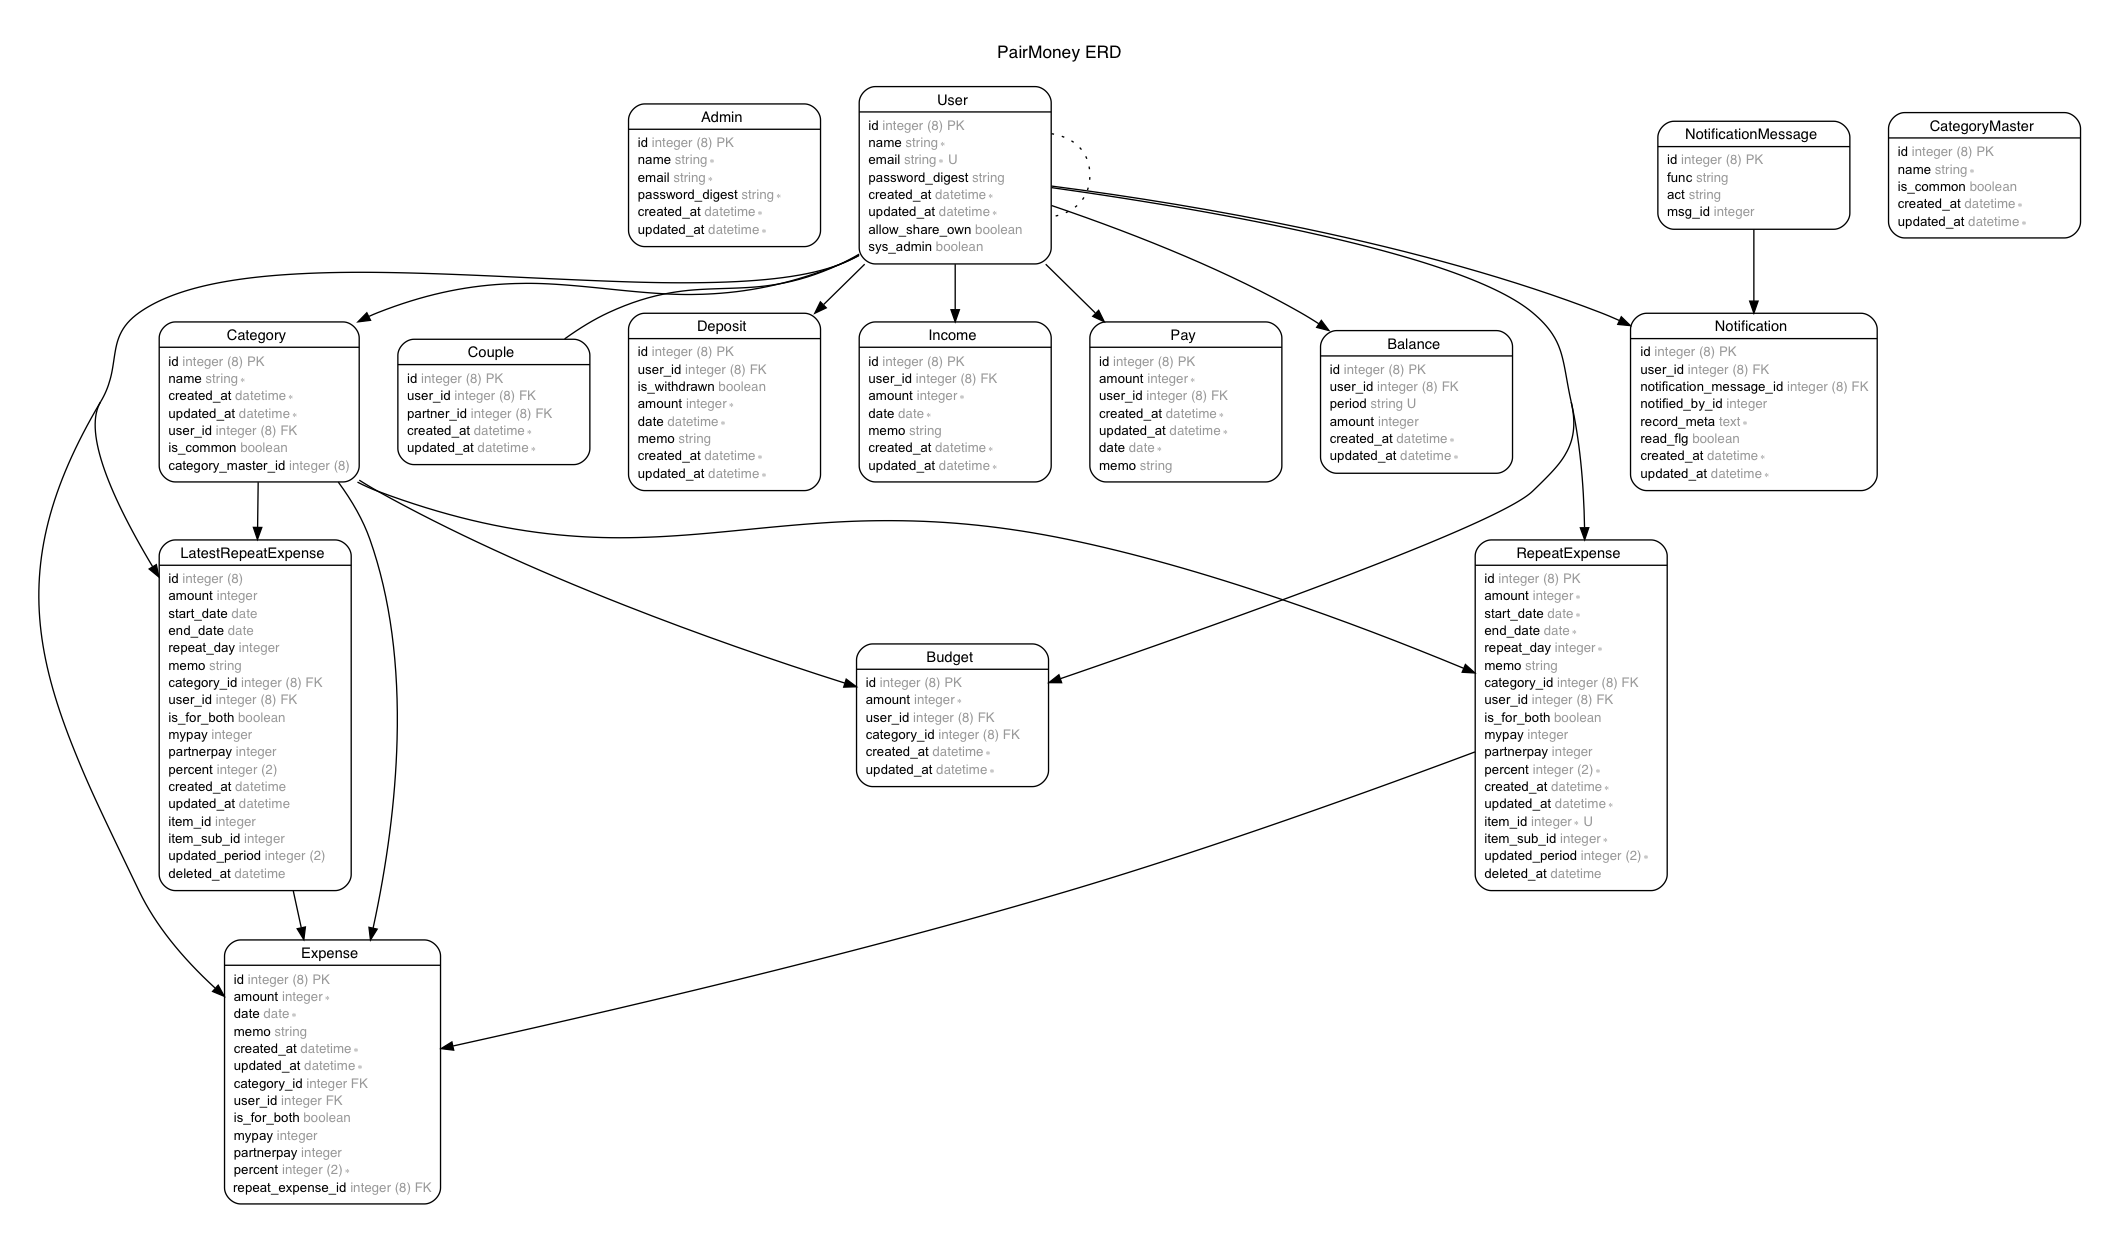
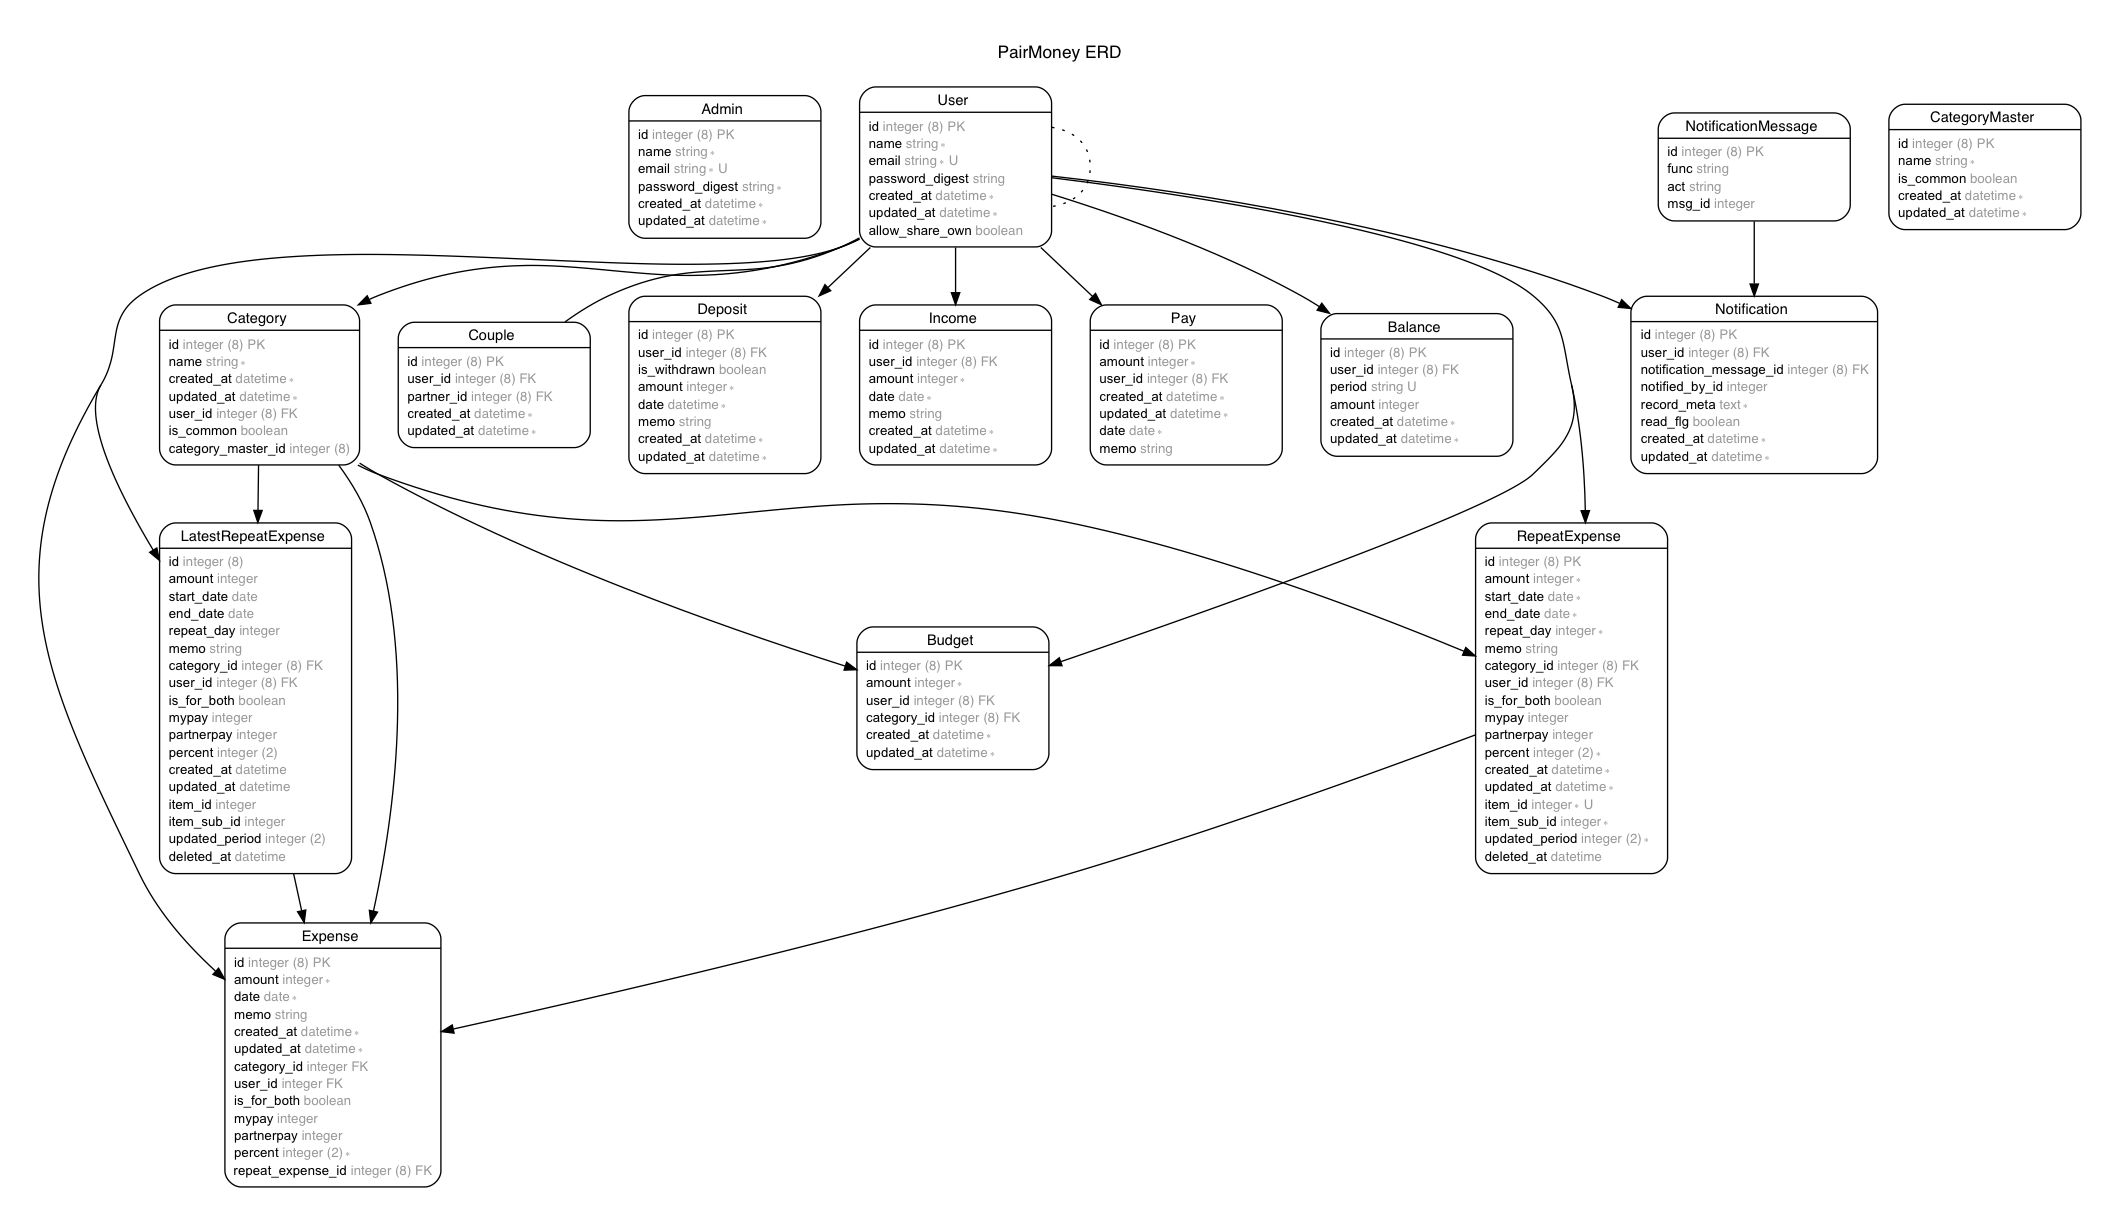
usersテーブルからsys_adminカラムを除去 #126

diff --git a/db/schema.rb b/db/schema.rb
@@ -10,7 +10,7 @@
 #
 # It's strongly recommended that you check this file into your version control system.
 
-ActiveRecord::Schema.define(version: 2019_07_16_214300) do
+ActiveRecord::Schema.define(version: 2019_07_20_002004) do
 
   # These are extensions that must be enabled in order to support this database
   enable_extension "plpgsql"
@@ -168,7 +168,6 @@ ActiveRecord::Schema.define(version: 2019_07_16_214300) do
     t.datetime "created_at", null: false
     t.datetime "updated_at", null: false
     t.boolean "allow_share_own", default: false
-    t.boolean "sys_admin", default: false
     t.index ["email"], name: "index_users_on_email", unique: true
   end
 

diff --git a/app/models/user.rb b/app/models/user.rb
@@ -11,7 +11,6 @@
 # **`email`**            | `string`           |
 # **`name`**             | `string`           |
 # **`password_digest`**  | `string`           |
-# **`sys_admin`**        | `boolean`          | `default(FALSE)`
 # **`created_at`**       | `datetime`         | `not null`
 # **`updated_at`**       | `datetime`         | `not null`
 #

diff --git a/spec/factories/users.rb b/spec/factories/users.rb
@@ -11,7 +11,6 @@
 # **`email`**            | `string`           |
 # **`name`**             | `string`           |
 # **`password_digest`**  | `string`           |
-# **`sys_admin`**        | `boolean`          | `default(FALSE)`
 # **`created_at`**       | `datetime`         | `not null`
 # **`updated_at`**       | `datetime`         | `not null`
 #

diff --git a/spec/models/user_spec.rb b/spec/models/user_spec.rb
@@ -11,7 +11,6 @@
 # **`email`**            | `string`           |
 # **`name`**             | `string`           |
 # **`password_digest`**  | `string`           |
-# **`sys_admin`**        | `boolean`          | `default(FALSE)`
 # **`created_at`**       | `datetime`         | `not null`
 # **`updated_at`**       | `datetime`         | `not null`
 #

diff --git a/db/migrate/20190720002004_remove_sys_admin_from_users.rb b/db/migrate/20190720002004_remove_sys_admin_from_users.rb
@@ -1,0 +1,9 @@
+class RemoveSysAdminFromUsers < ActiveRecord::Migration[5.2]
+  def up
+    remove_column :users, :sys_admin
+  end
+
+  def down
+    add_column :users, :sys_admin, :boolean, default: false
+  end
+end
